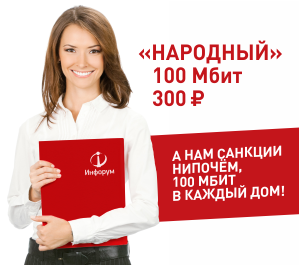
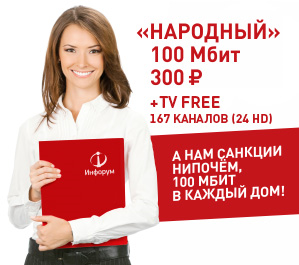
33045 Изменение страницы сайта Инфорум под новый ТП Народный

Changed region(s): [[0.4515, 0.0604, 0.9632, 0.483]]

diff --git a/src/Inforoom2/Css/main.css b/src/Inforoom2/Css/main.css
@@ -41,7 +41,7 @@ a {text-decoration: none;color: #474747;}
 .menu a {color: #474747;border-bottom: 1px solid;}
 .menu a.active {color: #a71b22;border-bottom: none;}
 .page {position: relative;}
-.plans {background: #cfc9c9;width: 1182px;height: 760px;}
+.plans {background: #cfc9c9;width: 1182px;height: 775px;}
 .heading {color: #2e2d2d;font-family: PDFDinTextPro;font-size: 27px;height: 60px;margin-left: 365px; padding-top: 10px;text-align: center;width: 444px;position: relative;margin-bottom: 10px;}
 .variants {width:1182px;height: 454px;text-align: center;position: absolute;top: 70px;left: 8px;}
 .type {background: #ffffff;width: 305px;height: 454px;display: inline-block;margin-right: 15px;border-radius: 10px;vertical-align: top;position: relative;}
